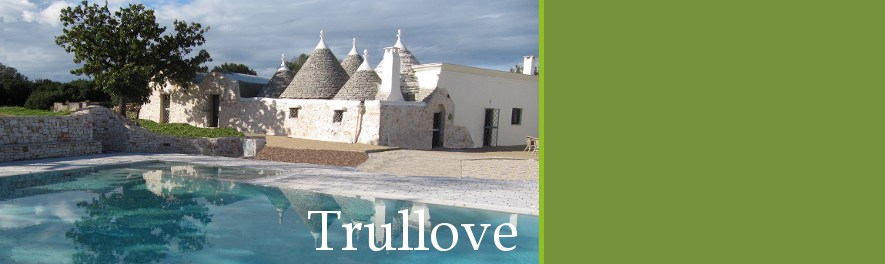
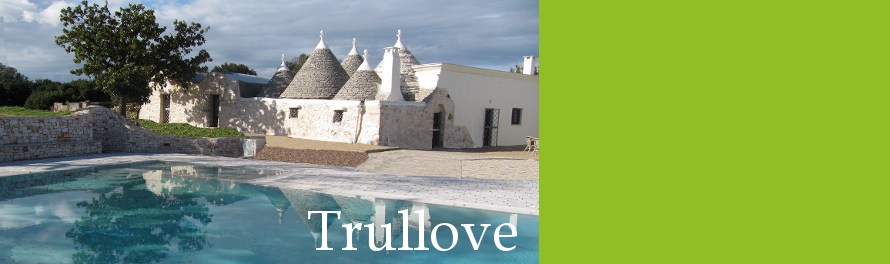
trullove theme header bg color, header image exact size

diff --git a/addons/themes/trullove/css/style.css b/addons/themes/trullove/css/style.css
@@ -334,7 +334,7 @@ div.art-header-jpeg
   z-index: -1;
   top: 0;
   left: 0;
-  width: 885px;
+  width: 890px;
   height: 264px;
   background-image: url('images/header.jpg');
   background-repeat: no-repeat;
